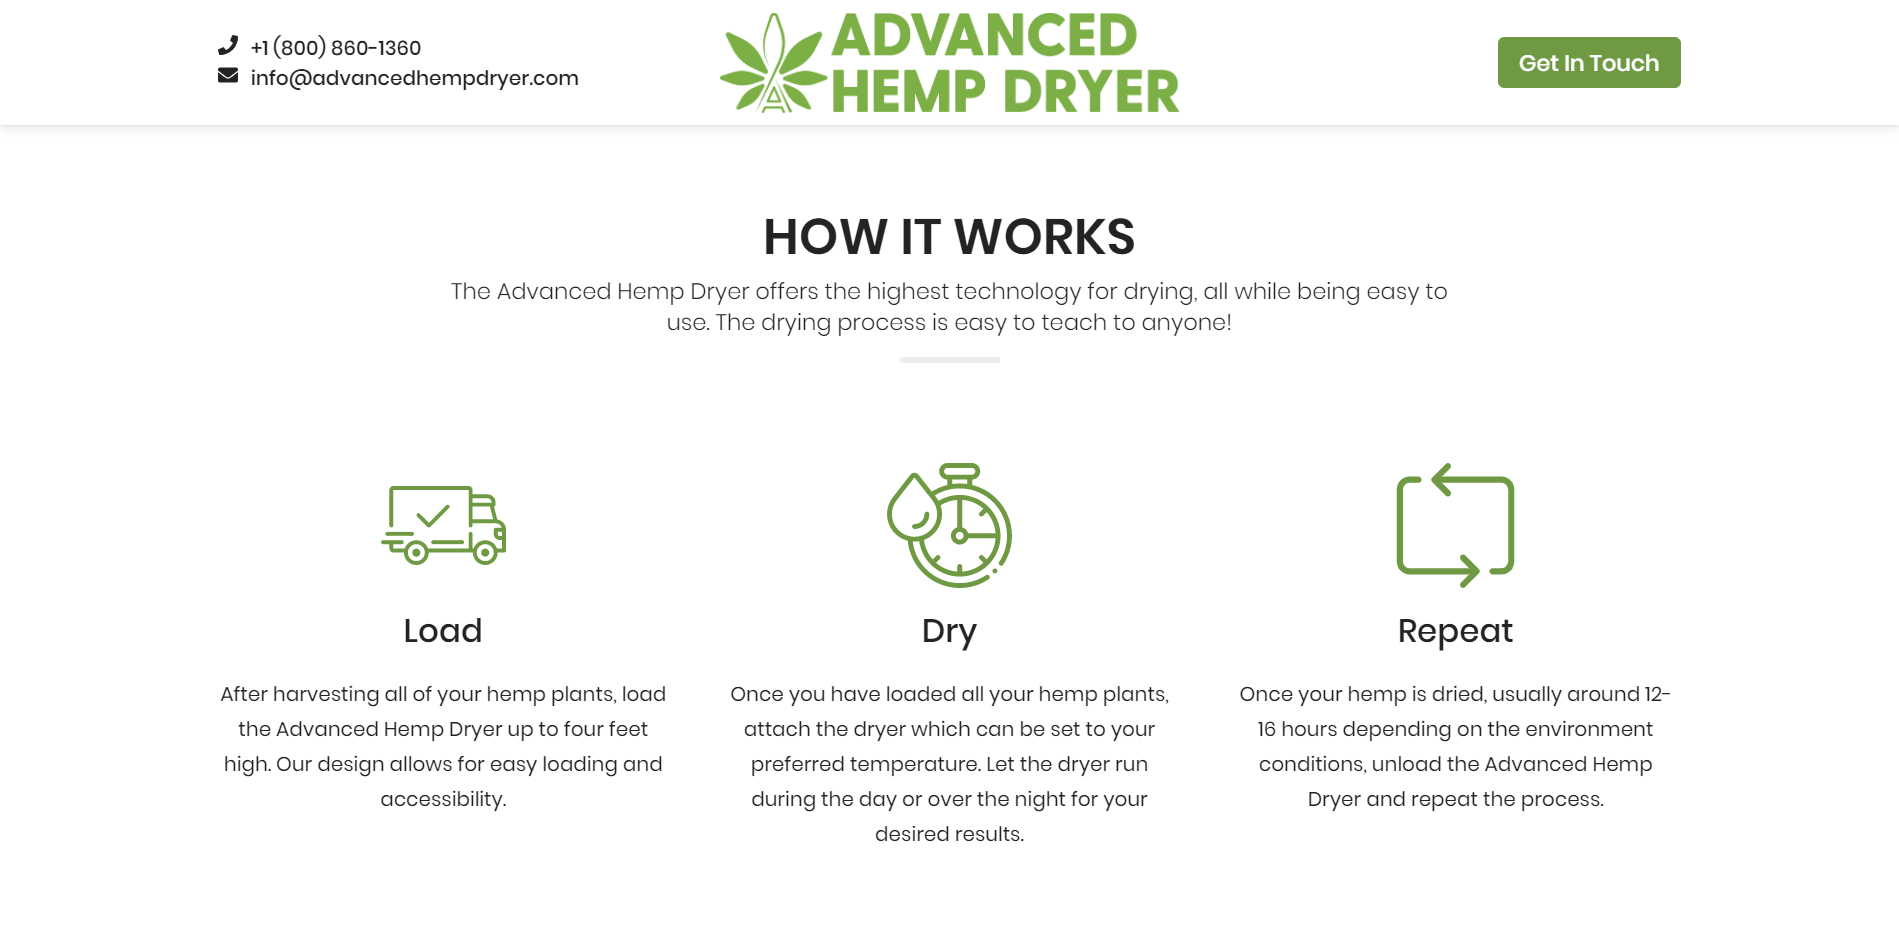
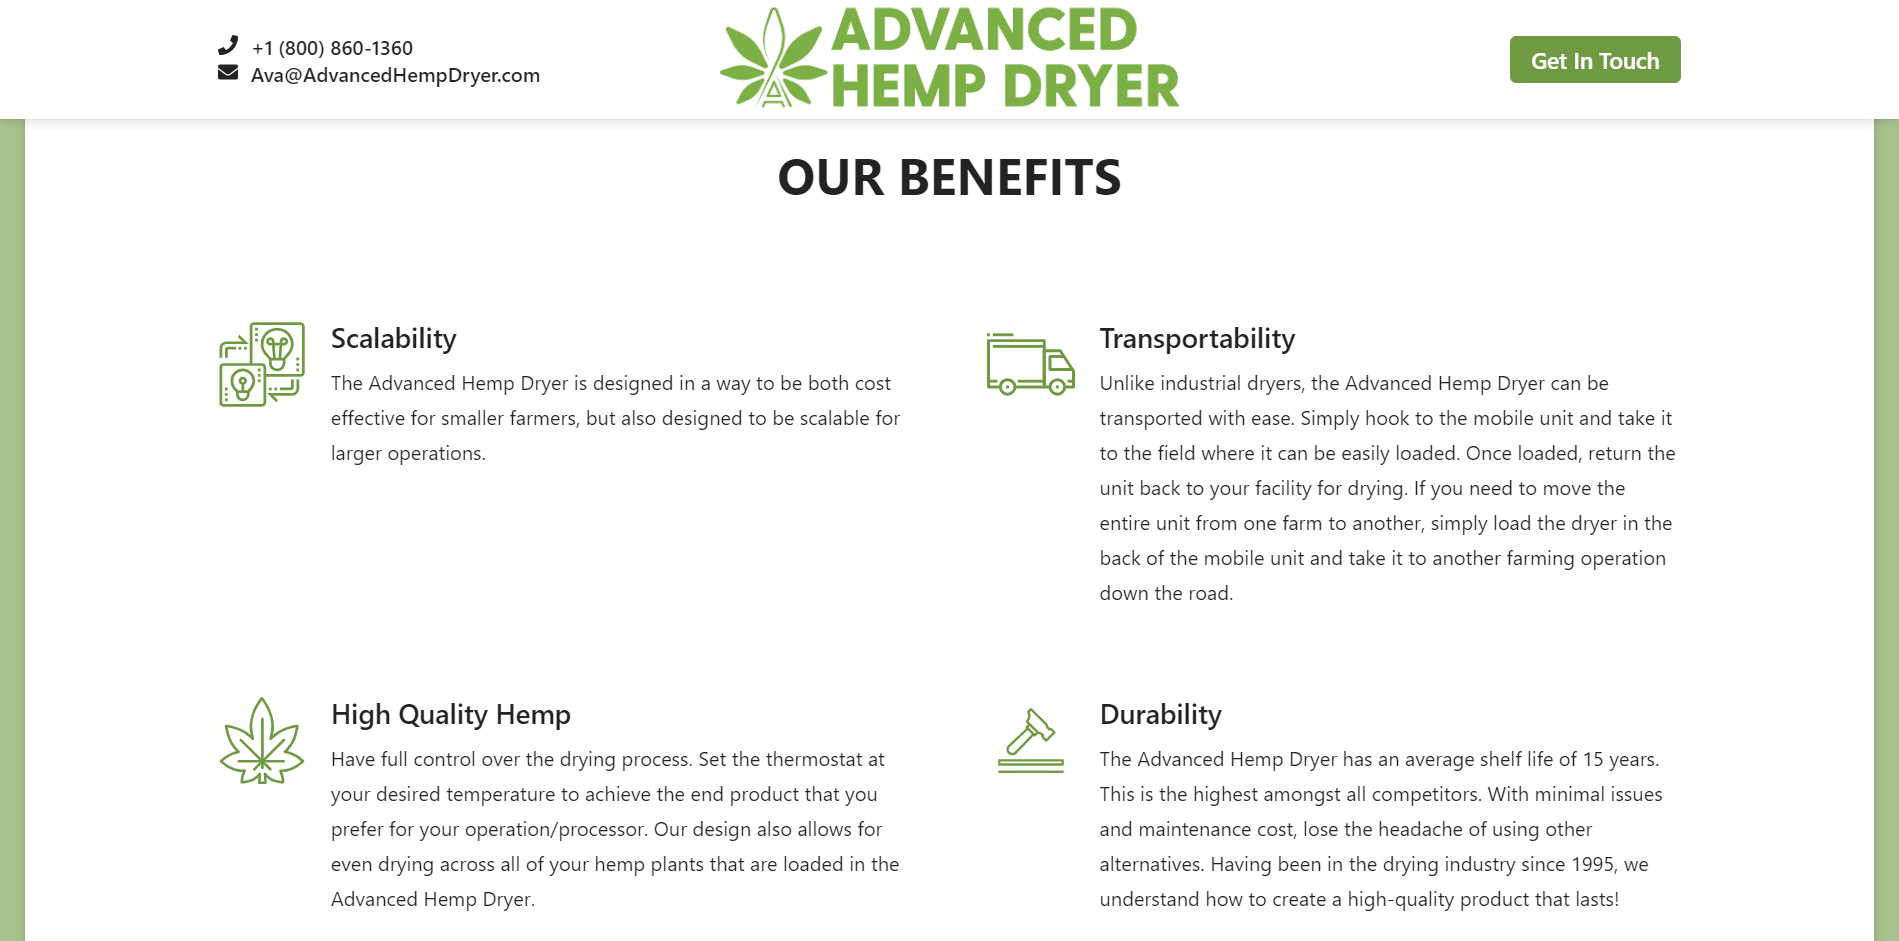
update Advanced Hemp Dryer info

diff --git a/src/context/ProjectsContext.jsx b/src/context/ProjectsContext.jsx
@@ -61,9 +61,9 @@ const ProjectsContext = React.createContext([
     ],
   },
   {
-    name: "Advanced Trailer",
+    name: "Advanced Hemp Dryer",
     description:
-      "This is a single page application I created for Advanced Hemp Trailer, the largest supplier of processing machinery for the peanut, almond, and hazelnut industries. I was responsible for implementing all the markup, styling code and scripts. This website consists of a header and 5 responsive and cross browser compatible sections.",
+      "This is a single page application I created for Advanced Hemp Dryer, the largest supplier of processing machinery for the peanut, almond, and hazelnut industries. I was responsible for implementing all the markup, styling code and scripts. This website consists of a header and 5 responsive and cross browser compatible sections.",
     technologies: [
       {
         name: "Tech stack",
@@ -81,13 +81,13 @@ const ProjectsContext = React.createContext([
     ],
     process: [
       "Having discussed basic information such as target audience, preferable color scheme and general structure, I created a website with provided images and videos and added text content after receiving it from the client.",
-      "After publishing the product using GitHub Pages, I did some minor design changes in it and made the website responsive. Eventually, I published the final product to the clients' domain.",
+      "After publishing the product using GitHub Pages, I did some minor design changes in it and made the website responsive. Eventually, I published the final product to the clients' domain and connected analytics that were needed.",
     ],
     techStack: [3, 4, 2],
     repo: "https://github.com/dyaroshevych/advanced-hemp-trailer",
-    link: "https://dyaroshevych.github.io/advanced-hemp-trailer",
+    link: "https://advancedhempdryer.com/",
     images: [
-      { url: projectImages.advancedhemp1, description: "How it Works section" },
+      { url: projectImages.advancedhemp1, description: "Benefits section" },
       { url: projectImages.advancedhemp2, description: "Header" },
       { url: projectImages.advancedhemp3, description: "Image slider" },
     ],

diff --git a/public/index.html b/public/index.html
@@ -1,21 +1,6 @@
 <!DOCTYPE html>
 <html lang="en">
   <head>
-    <!-- Global site tag (gtag.js) - Google Analytics -->
-    <script
-      async
-      src="https://www.googletagmanager.com/gtag/js?id=UA-162027253-1"
-    ></script>
-    <script>
-      window.dataLayer = window.dataLayer || [];
-      function gtag() {
-        dataLayer.push(arguments);
-      }
-      gtag("js", new Date());
-
-      gtag("config", "UA-162027253-1");
-    </script>
-
     <meta charset="utf-8" />
     <meta name="viewport" content="width=device-width, initial-scale=1" />
     <meta name="theme-color" content="#000000" />
@@ -59,19 +44,23 @@
       href="https://fonts.googleapis.com/css2?family=Lato:wght@700&display=swap"
       rel="stylesheet"
     />
+    <!-- Global site tag (gtag.js) - Google Analytics -->
+    <script
+      async
+      src="https://www.googletagmanager.com/gtag/js?id=UA-162027253-1"
+    ></script>
+    <script>
+      window.dataLayer = window.dataLayer || [];
+      function gtag() {
+        dataLayer.push(arguments);
+      }
+      gtag("js", new Date());
+
+      gtag("config", "UA-162027253-1");
+    </script>
   </head>
   <body class="scrollable">
     <noscript>You need to enable JavaScript to run this app.</noscript>
     <div id="root"></div>
-    <!--
-      This HTML file is a template.
-      If you open it directly in the browser, you will see an empty page.
-
-      You can add webfonts, meta tags, or analytics to this file.
-      The build step will place the bundled scripts into the <body> tag.
-
-      To begin the development, run `npm start` or `yarn start`.
-      To create a production bundle, use `npm run build` or `yarn build`.
-    -->
   </body>
 </html>

diff --git a/src/components/sections/Layout/ProjectsContainer/Project/Project.scss b/src/components/sections/Layout/ProjectsContainer/Project/Project.scss
@@ -47,7 +47,7 @@
   &_info {
     position: relative;
     z-index: 1;
-    padding: 20px 50px;
+    padding: 20px 27px;
     background-color: rgba(34, 34, 34, 0.9);
     border-radius: 5px;
     width: 70%;
@@ -58,7 +58,7 @@
 
     @include desktop-sm {
       width: 85%;
-      padding: 20px 30px;
+      padding: 20px;
     }
 
     @include tablet {
@@ -67,6 +67,7 @@
 
     @include mobile-lg {
       width: 280px;
+      padding: 20px 10px;
     }
   }
 
